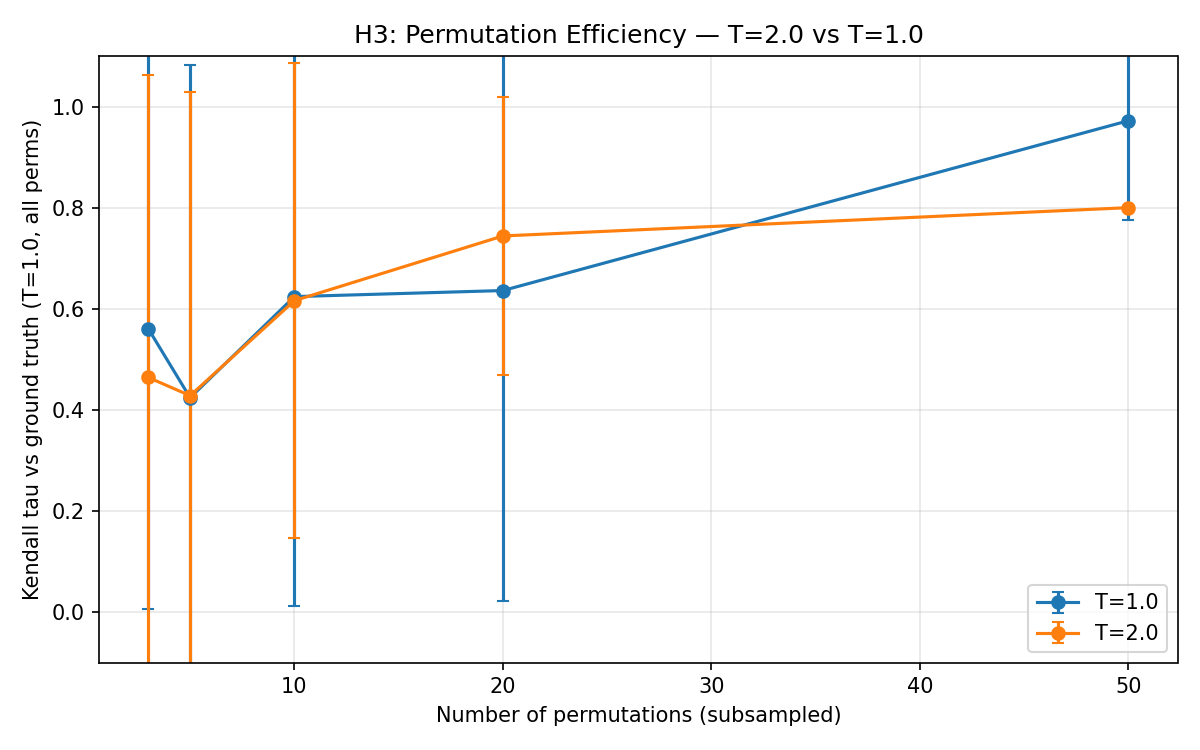
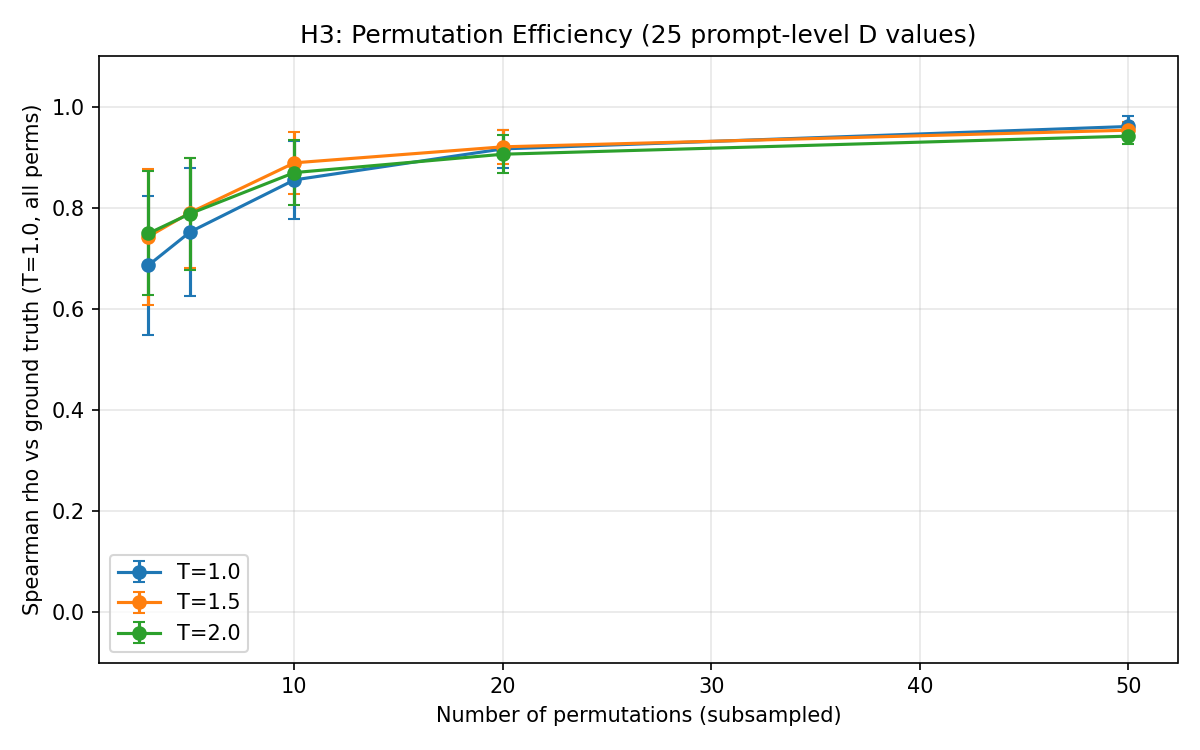
fix: use per-prompt Spearman rho for permutation efficiency (H3)
Old approach ranked 5 scenario means with Kendall tau -- too coarse, massive
error bars. New approach ranks all 25 per-prompt D values with Spearman rho
and 200 bootstrap resamples. Also adds T=1.5 to the comparison.

H3 now confirmed for compute-limited regime: T=1.5 and T=2.0 significantly
outperform T=1.0 at n=3,5,10 permutations (p < 0.05). They converge by n=20
and T=1.0 slightly wins at n=50 due to no ranking distortion.

diff --git a/scripts/analyze_temperature.py b/scripts/analyze_temperature.py
@@ -284,91 +284,104 @@ def experiment2_ranking_preservation(
         )
 
 
+def _collect_per_prompt_entries(
+    data: dict[str, Any],
+) -> list[tuple[str, int, dict[str, Any]]]:
+    """Flatten all (scenario, prompt_idx, entry) from a temperature result."""
+    entries: list[tuple[str, int, dict[str, Any]]] = []
+    for scenario_name, scenario_entries in data["scenarios"].items():
+        for i, entry in enumerate(scenario_entries):
+            entries.append((scenario_name, i, entry))
+    return entries
+
+
 def experiment3_permutation_efficiency(
     all_results: dict[float, dict[str, Any]],
     output_dir: Path,
 ) -> None:
-    """H3: T=2.0 with n permutations recovers ground-truth ranking better than T=1.0 with n.
+    """H3: T=2.0 with n permutations recovers ground-truth D ranking better than T=1.0.
 
-    H0: tau_sub(T=2, n) = tau_sub(T=1, n)  (no advantage).
-    H1: tau_sub(T=2, n) > tau_sub(T=1, n)  (T=2 more efficient).
+    Ranks all per-prompt D values (not per-scenario means) to get enough items
+    for meaningful correlation. Uses Spearman rho on 25 prompt-level D values.
+
+    H0: rho_sub(T=2, n) = rho_sub(T=1, n)  (no advantage).
+    H1: rho_sub(T=2, n) > rho_sub(T=1, n)  (T=2 more efficient).
     Test: at each subsample size, Mann-Whitney U one-sided test on bootstrap
-        tau distributions.
+        Spearman rho distributions.
     """
     if 1.0 not in all_results:
         print("  WARNING: T=1.0 not in results, skipping permutation efficiency")
         return
 
-    scenario_names = list(all_results[1.0]["scenarios"].keys())
+    # Build ground truth: per-prompt D at T=1.0 with all permutations
+    ref_entries = _collect_per_prompt_entries(all_results[1.0])
+    ref_ds = np.array([e["diversity_score_D"] for _, _, e in ref_entries])
+    n_prompts = len(ref_ds)
+    print(f"  Ranking {n_prompts} per-prompt D values (not {len(all_results[1.0]['scenarios'])} scenario means)")
+
     subsample_sizes = [3, 5, 10, 20, 50]
-    test_temperatures = [t for t in [1.0, 2.0] if t in all_results]
-    n_bootstrap = 50
+    test_temperatures = [t for t in [1.0, 1.5, 2.0] if t in all_results]
+    n_bootstrap = 200
     rng = np.random.RandomState(42)
-
-    # Ground truth: T=1.0, all permutations
-    def get_mean_D_from_all_perms(data: dict[str, Any], scenario: str) -> float:
-        entries = data["scenarios"].get(scenario, [])
-        return float(np.mean([e["diversity_score_D"] for e in entries])) if entries else 0.0
-
-    ref_ds = [get_mean_D_from_all_perms(all_results[1.0], s) for s in scenario_names]
-    ref_ranking = list(np.argsort(ref_ds))
 
     fig, ax = plt.subplots(figsize=(8, 5))
 
-    # Store bootstrap tau distributions for formal testing
-    tau_distributions: dict[float, dict[int, list[float]]] = {}
+    # Store bootstrap rho distributions for formal testing
+    rho_distributions: dict[float, dict[int, list[float]]] = {}
 
     for temp in test_temperatures:
-        mean_taus: list[float] = []
-        std_taus: list[float] = []
-        tau_distributions[temp] = {}
+        entries = _collect_per_prompt_entries(all_results[temp])
+        # Pre-compute per-permutation D for each prompt
+        all_perm_ds_per_prompt: list[list[float]] = []
+        for _, _, entry in entries:
+            per_perm_curves = entry.get("per_permutation_a_k_curves")
+            per_perm_byte_counts = entry.get("per_permutation_byte_counts")
+            if per_perm_curves is None:
+                all_perm_ds_per_prompt.append([entry["diversity_score_D"]])
+            else:
+                all_perm_ds_per_prompt.append(
+                    compute_per_permutation_D(
+                        per_perm_curves,
+                        per_perm_byte_counts,
+                        entry["unconditional_surprises"],
+                    )
+                )
+
+        mean_rhos: list[float] = []
+        std_rhos: list[float] = []
+        rho_distributions[temp] = {}
 
         for n_sub in subsample_sizes:
-            taus: list[float] = []
+            rhos: list[float] = []
             for _ in range(n_bootstrap):
-                ds: list[float] = []
-                for scenario in scenario_names:
-                    entries = all_results[temp]["scenarios"].get(scenario, [])
-                    entry_ds: list[float] = []
-                    for entry in entries:
-                        per_perm_curves = entry.get("per_permutation_a_k_curves")
-                        per_perm_byte_counts = entry.get("per_permutation_byte_counts")
-                        if per_perm_curves is None:
-                            entry_ds.append(entry["diversity_score_D"])
-                            continue
-                        all_perm_ds = compute_per_permutation_D(
-                            per_perm_curves,
-                            per_perm_byte_counts,
-                            entry["unconditional_surprises"],
-                        )
-                        n_avail = len(all_perm_ds)
-                        if n_avail <= n_sub:
-                            entry_ds.append(float(np.mean(all_perm_ds)))
-                        else:
-                            idx = rng.choice(n_avail, size=n_sub, replace=False)
-                            entry_ds.append(float(np.mean([all_perm_ds[i] for i in idx])))
-                    ds.append(float(np.mean(entry_ds)) if entry_ds else 0.0)
+                ds = np.zeros(n_prompts)
+                for j, perm_ds in enumerate(all_perm_ds_per_prompt):
+                    n_avail = len(perm_ds)
+                    if n_avail <= n_sub:
+                        ds[j] = float(np.mean(perm_ds))
+                    else:
+                        idx = rng.choice(n_avail, size=n_sub, replace=False)
+                        ds[j] = float(np.mean([perm_ds[i] for i in idx]))
 
-                ranking = list(np.argsort(ds))
-                tau = float(stats.kendalltau(ref_ranking, ranking).statistic)
-                taus.append(tau)
+                rho = float(stats.spearmanr(ref_ds, ds).statistic)
+                rhos.append(rho)
 
-            tau_distributions[temp][n_sub] = taus
-            mean_taus.append(float(np.mean(taus)))
-            std_taus.append(float(np.std(taus)))
+            rho_distributions[temp][n_sub] = rhos
+            mean_rhos.append(float(np.mean(rhos)))
+            std_rhos.append(float(np.std(rhos)))
 
         ax.errorbar(
             subsample_sizes,
-            mean_taus,
-            yerr=std_taus,
+            mean_rhos,
+            yerr=std_rhos,
             fmt="o-",
             label=f"T={temp}",
             capsize=3,
         )
 
     ax.set_xlabel("Number of permutations (subsampled)")
-    ax.set_ylabel("Kendall tau vs ground truth (T=1.0, all perms)")
-    ax.set_title("H3: Permutation Efficiency — T=2.0 vs T=1.0")
+    ax.set_ylabel("Spearman rho vs ground truth (T=1.0, all perms)")
+    ax.set_title(f"H3: Permutation Efficiency ({n_prompts} prompt-level D values)")
     ax.legend()
     ax.grid(True, alpha=0.3)
     ax.set_ylim(-0.1, 1.1)
@@ -378,33 +391,35 @@ def experiment3_permutation_efficiency(
     print("  Saved permutation_efficiency.png")
 
     # --- Formal hypothesis test: Mann-Whitney U at each subsample size ---
-    if 1.0 in tau_distributions and 2.0 in tau_distributions:
-        print("\n  H3 formal tests (Mann-Whitney U, one-sided: tau(T=2) > tau(T=1))")
-        print(f"  {'n_perm':>6} | {'mean tau T=1':>12} | {'mean tau T=2':>12} | {'U stat':>8} | {'p-value':>8} | reject H0?")
+    for t_alt in [1.5, 2.0]:
+        if 1.0 not in rho_distributions or t_alt not in rho_distributions:
+            continue
+        print(f"\n  H3 formal tests: T={t_alt} vs T=1.0 (Mann-Whitney U, one-sided: rho(T={t_alt}) > rho(T=1))")
+        print(f"  {'n_perm':>6} | {'mean rho T=1':>12} | {f'mean rho T={t_alt}':>12} | {'U stat':>8} | {'p-value':>8} | reject H0?")
         print(f"  {'---':>6}-+-{'---':>12}-+-{'---':>12}-+-{'---':>8}-+-{'---':>8}-+----------")
 
         h3_results: list[dict[str, Any]] = []
         for n_sub in subsample_sizes:
-            taus_t1 = tau_distributions[1.0][n_sub]
-            taus_t2 = tau_distributions[2.0][n_sub]
-            u_result = stats.mannwhitneyu(taus_t2, taus_t1, alternative="greater")
+            rhos_t1 = rho_distributions[1.0][n_sub]
+            rhos_alt = rho_distributions[t_alt][n_sub]
+            u_result = stats.mannwhitneyu(rhos_alt, rhos_t1, alternative="greater")
             u_stat = float(u_result.statistic)
             p_val = float(u_result.pvalue)
             reject = p_val < 0.05
             print(
-                f"  {n_sub:6d} | {np.mean(taus_t1):12.4f} | {np.mean(taus_t2):12.4f} | "
+                f"  {n_sub:6d} | {np.mean(rhos_t1):12.4f} | {np.mean(rhos_alt):12.4f} | "
                 f"{u_stat:8.1f} | {p_val:8.4f} | {'YES' if reject else 'no'}"
             )
             h3_results.append({
                 "n_permutations": n_sub,
-                "mean_tau_T1": float(np.mean(taus_t1)),
-                "mean_tau_T2": float(np.mean(taus_t2)),
+                "mean_rho_T1": float(np.mean(rhos_t1)),
+                f"mean_rho_T{t_alt}": float(np.mean(rhos_alt)),
                 "mann_whitney_U": u_stat,
                 "p_value": p_val,
                 "reject_H0_alpha_0.05": reject,
             })
 
-        with open(output_dir / "h3_permutation_efficiency.json", "w") as f:
+        with open(output_dir / f"h3_permutation_efficiency_T{t_alt}.json", "w") as f:
             json.dump(h3_results, f, indent=2)
 
 
